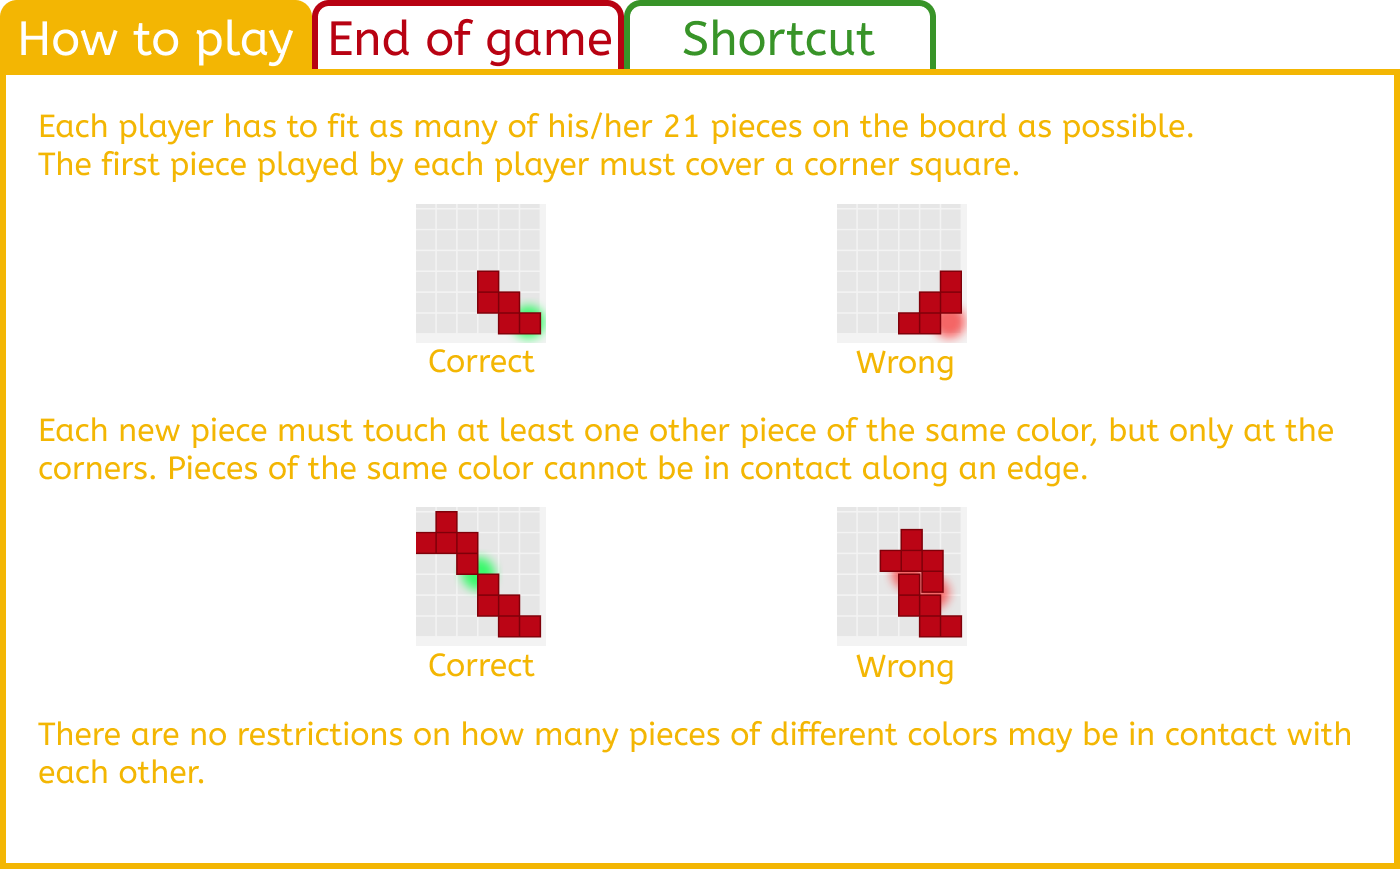
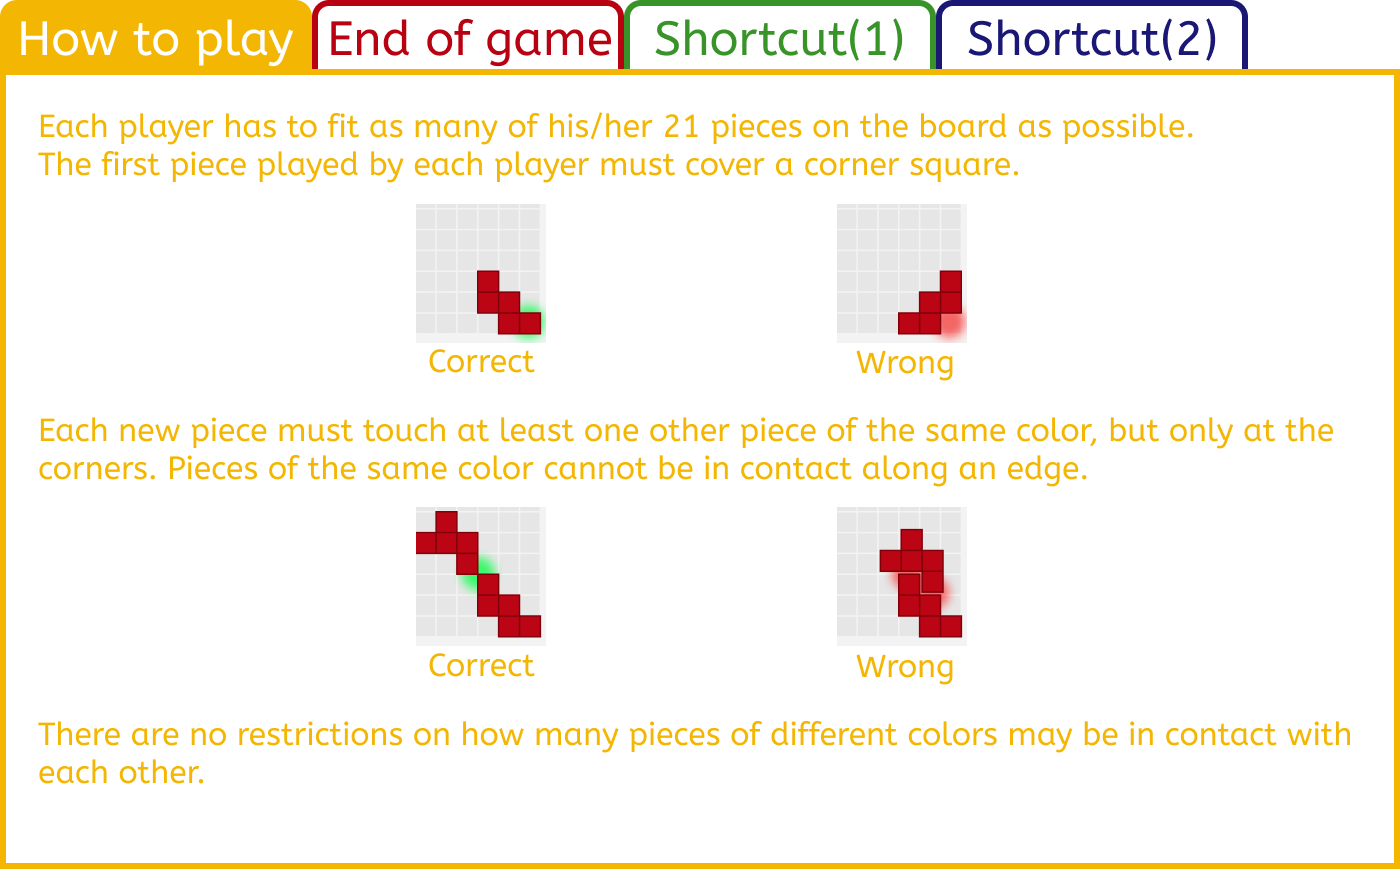
Tuto page (mouse) added

Changed region(s): [[0.4607, 0.0, 0.8907, 0.0621]]

diff --git a/src/Interface/TutorialMouseAdapter.java b/src/Interface/TutorialMouseAdapter.java
@@ -13,28 +13,43 @@ public class TutorialMouseAdapter implements MouseListener {
     @Override
     public void mouseClicked(MouseEvent e) {
         Integer borderWidth1 = (int) (tuto2.frame.getWidth()*0.145);
-        Integer borderWidth2 = ((int) (tuto2.frame.getWidth()*0.145)+(int)((int) (tuto2.frame.getWidth()*0.73)*0.22));
+        Integer borderWidth2 = borderWidth1 + (int)((int) (tuto2.frame.getWidth()*0.73)*0.22);
         Integer borderWidth3 = borderWidth2 + (int)((int) (tuto2.frame.getWidth()*0.73)*0.22);
         Integer borderWidth4 = borderWidth3 + (int)((int) (tuto2.frame.getWidth()*0.73)*0.22);
+        Integer borderWidth5 = borderWidth4 + (int)((int) (tuto2.frame.getWidth()*0.73)*0.22);
         Integer borderHeight1 = (int) (tuto2.frame.getHeight()*0.172);
         Integer borderHeight2 =  borderHeight1 + (int) ((int) (tuto2.frame.getHeight()*0.74)*0.0794);
+
+        System.out.println(borderWidth4+" "+borderWidth5);
+        System.out.println("Mouse Clicked On Board " + e.getX() + " " + e.getY());
         if (borderWidth1 <= e.getX() && borderWidth2 >= e.getX()
                 && borderHeight1 <= e.getY() &&  borderHeight2 >= e.getY()){
             tuto2.drawTuto1 = true;
             tuto2.drawTuto2 = false;
             tuto2.drawTuto3 = false;
+            tuto2.drawTuto4 = false;
             tuto2.repaint();
         } else if(borderWidth2 <= e.getX() && borderWidth3 >= e.getX()
                 && borderHeight1 <= e.getY() && borderHeight2 >= e.getY()){
             tuto2.drawTuto2 = true;
             tuto2.drawTuto1 = false;
             tuto2.drawTuto3 = false;
+            tuto2.drawTuto4 = false;
             tuto2.repaint();
         } else if(borderWidth3 <= e.getX() && borderWidth4 >= e.getX()
                 && borderHeight1 <= e.getY() && borderHeight2 >= e.getY()){
             tuto2.drawTuto2 = false;
             tuto2.drawTuto1 = false;
             tuto2.drawTuto3 = true;
+            tuto2.drawTuto4 = false;
+
+            tuto2.repaint();
+        } else if(borderWidth4 <= e.getX() && borderWidth5 >= e.getX()
+                && borderHeight1 <= e.getY() && borderHeight2 >= e.getY()){
+            tuto2.drawTuto2 = false;
+            tuto2.drawTuto1 = false;
+            tuto2.drawTuto3 = false;
+            tuto2.drawTuto4 = true;
             tuto2.repaint();
         }
 

diff --git a/src/Interface/TutorialInterface2.java b/src/Interface/TutorialInterface2.java
@@ -11,11 +11,13 @@ public class TutorialInterface2 extends JComponent{
     Image tuto1;
     Image tuto2;
     Image tuto3;
+    Image tuto4;
     HoverButton back;
     Integer height, width;
-    Boolean drawTuto1=true;
-    Boolean drawTuto2=false;
-    Boolean drawTuto3=false;
+    public Boolean drawTuto1=true;
+    public Boolean drawTuto2=false;
+    public Boolean drawTuto3=false;
+    public Boolean drawTuto4=false;
 
 
     public TutorialInterface2(JFrame j) throws IOException {
@@ -25,11 +27,13 @@ public class TutorialInterface2 extends JComponent{
         String tt1 = "images/tuto1.png";
         String tt2 = "images/tuto2.png";
         String tt3 = "images/tuto3.png";
+        String tt4 = "images/tuto4.png";
         backGround = new Image(frame, bg);
         logo = new Image(frame, lg);
         tuto1 = new Image(frame, tt1);
         tuto2 = new Image(frame, tt2);
         tuto3 = new Image(frame, tt3);
+        tuto4 = new Image(frame, tt4);
         this.back = new HoverButton(this,"Back", (int) (frame.getWidth()*0.05), (int) (frame.getHeight()*0.08));
         add(this.back);
         this.addMouseListener(new TutorialMouseAdapter(this));
@@ -55,6 +59,12 @@ public class TutorialInterface2 extends JComponent{
         }
     }
 
+    public void drawTuto4(Graphics g){
+        if (drawTuto4){
+            tuto4.drawImg(g, (int) (frame.getWidth()*0.145),(int) (frame.getHeight()*0.172), (int) (frame.getWidth()*0.73), (int) (frame.getHeight()*0.74));
+        }
+    }
+
     public void paintComponent(Graphics g) {
         height = frame.getHeight();
         width = frame.getWidth();
@@ -65,6 +75,7 @@ public class TutorialInterface2 extends JComponent{
         drawTuto1(g);
         drawTuto2(g);
         drawTuto3(g);
+        drawTuto4(g);
 
     }
 
